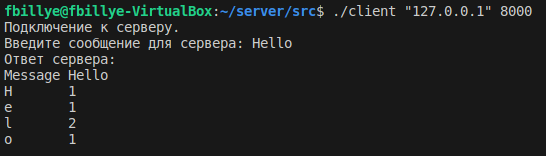
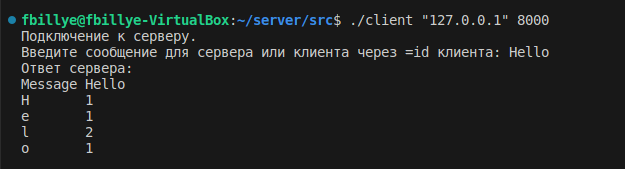
Update Client

diff --git a/src/server.cpp b/src/server.cpp
@@ -50,6 +50,48 @@ std::map<char, size_t> Server::CountLetter(const std::string& message) {
   return count;
 }
 
+void Server::SendMessage(int client, std::string message) {
+  if (message.find("=c") != std::string::npos ||
+      message.find("=clients") != std::string::npos) {
+    // Отправка сообщения с количеством подключений к серверу
+    std::string response =
+        "Количество подключенных клиентов: " + std::to_string(client_count_) +
+        ".";
+    send(client, response.c_str(), response.length(), 0);
+  } else if (message[0] == '=' && isdigit(message[1])) {
+    // Отправка сообщения другому клиенту
+    size_t space_pos = message.find(' ');
+    int other_client = std::stoi(message.substr(1, space_pos - 1));
+    message.erase(0, space_pos + 1);
+    if (clients_.count(other_client)) {
+      if (client == other_client) {
+        std::string new_message =
+            "Вы отправили сообщение сами себе: " + message;
+        send(client, new_message.c_str(), new_message.length(), 0);
+      } else {
+        std::string new_message = "Сообщение для клиента номер " +
+                                  std::to_string(other_client) + ": " + message;
+        send(other_client, new_message.c_str(), new_message.length(), 0);
+      }
+    } else {
+      std::string error_message = "Клиента с номером " +
+                                  std::to_string(other_client) +
+                                  " не существует!";
+      send(client, error_message.c_str(), error_message.length(), 0);
+    }
+  } else {
+    // Отправка сообщения клиенту с подсчетом количества букв
+    std::string new_message = "Message " + message + "\n";
+    for (auto& entry : CountLetter(message)) {
+      new_message += entry.first;
+      new_message += "\t";
+      new_message += std::to_string(entry.second);
+      new_message += "\n";
+    }
+    send(client, new_message.c_str(), new_message.length(), 0);
+  }
+}
+
 // Метод для обработки подключений клиентов
 void Server::ClientThread(int client) {
   clients_.insert(client);
@@ -59,27 +101,10 @@ void Server::ClientThread(int client) {
   char buffer[1024];
   int bytes_received;
 
-  // Получение данных от клиента
+  // Получение данных от клиента и отправка сообшения клиенту
   while ((bytes_received = recv(client, buffer, 1024, 0)) > 0) {
     std::string message(buffer, bytes_received);
-    if (message.find("=c") != std::string::npos ||
-        message.find("=clients") != std::string::npos) {
-      // Отправка сообщения с количеством подключений к серверу
-      std::string response =
-          "Количество подключенных клиентов: " + std::to_string(client_count_) +
-          ".";
-      send(client, response.c_str(), response.length(), 0);
-    } else {
-      // Отправка сообщения клиенту с количеством букв
-      std::string new_message = "Message " + message + "\n";
-      for (auto& entry : CountLetter(message)) {
-        new_message += entry.first;
-        new_message += "\t";
-        new_message += std::to_string(entry.second);
-        new_message += "\n";
-      }
-      send(client, new_message.c_str(), new_message.length(), 0);
-    }
+    SendMessage(client, message);
   }
 
   if (bytes_received == 0) {

diff --git a/src/client.cpp b/src/client.cpp
@@ -25,7 +25,7 @@ void Client::Connect() {
 
   std::cout << "Подключение к серверу." << std::endl;
 
-  std::cout << "Введите сообщение для сервера: ";
+  std::cout << "Введите сообщение для сервера или клиента через =id клиента: ";
   std::string message;
   std::getline(std::cin, message);
   if (std::cin.fail()) {

diff --git a/src/server.h b/src/server.h
@@ -25,6 +25,7 @@ class Server {
   size_t client_count_;
   std::set<int> clients_;
   std::map<char, size_t> CountLetter(const std::string &message);
+  void SendMessage(int client, std::string message);
 };
 
 #endif  // SRC_SERVER_
